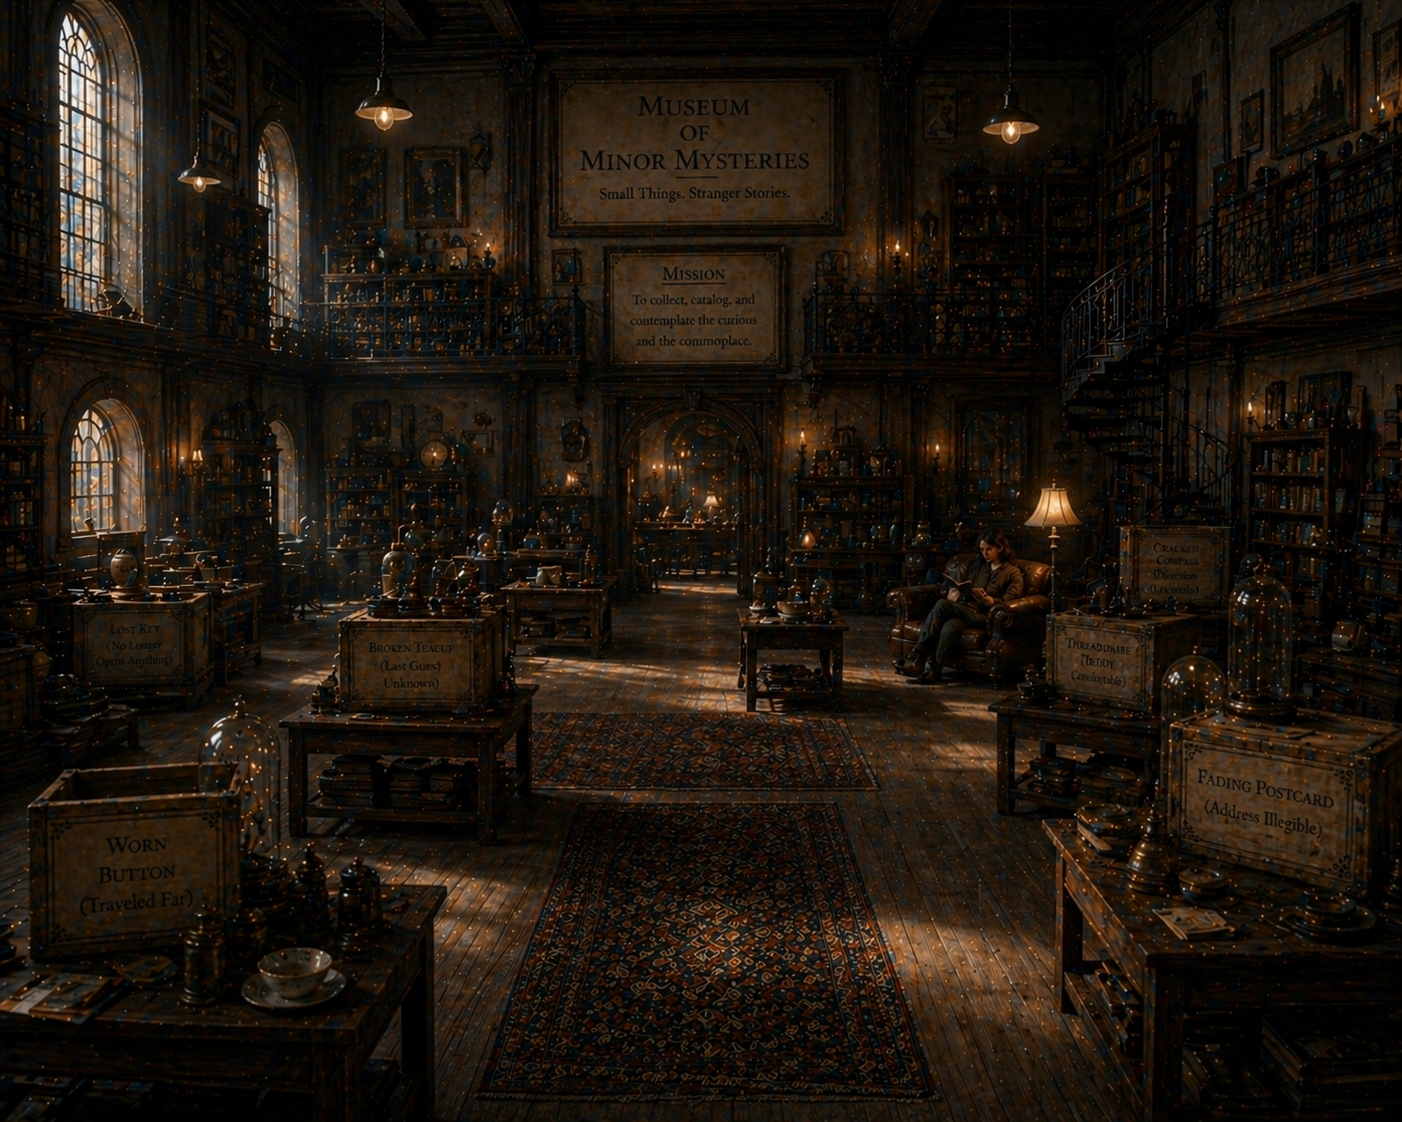
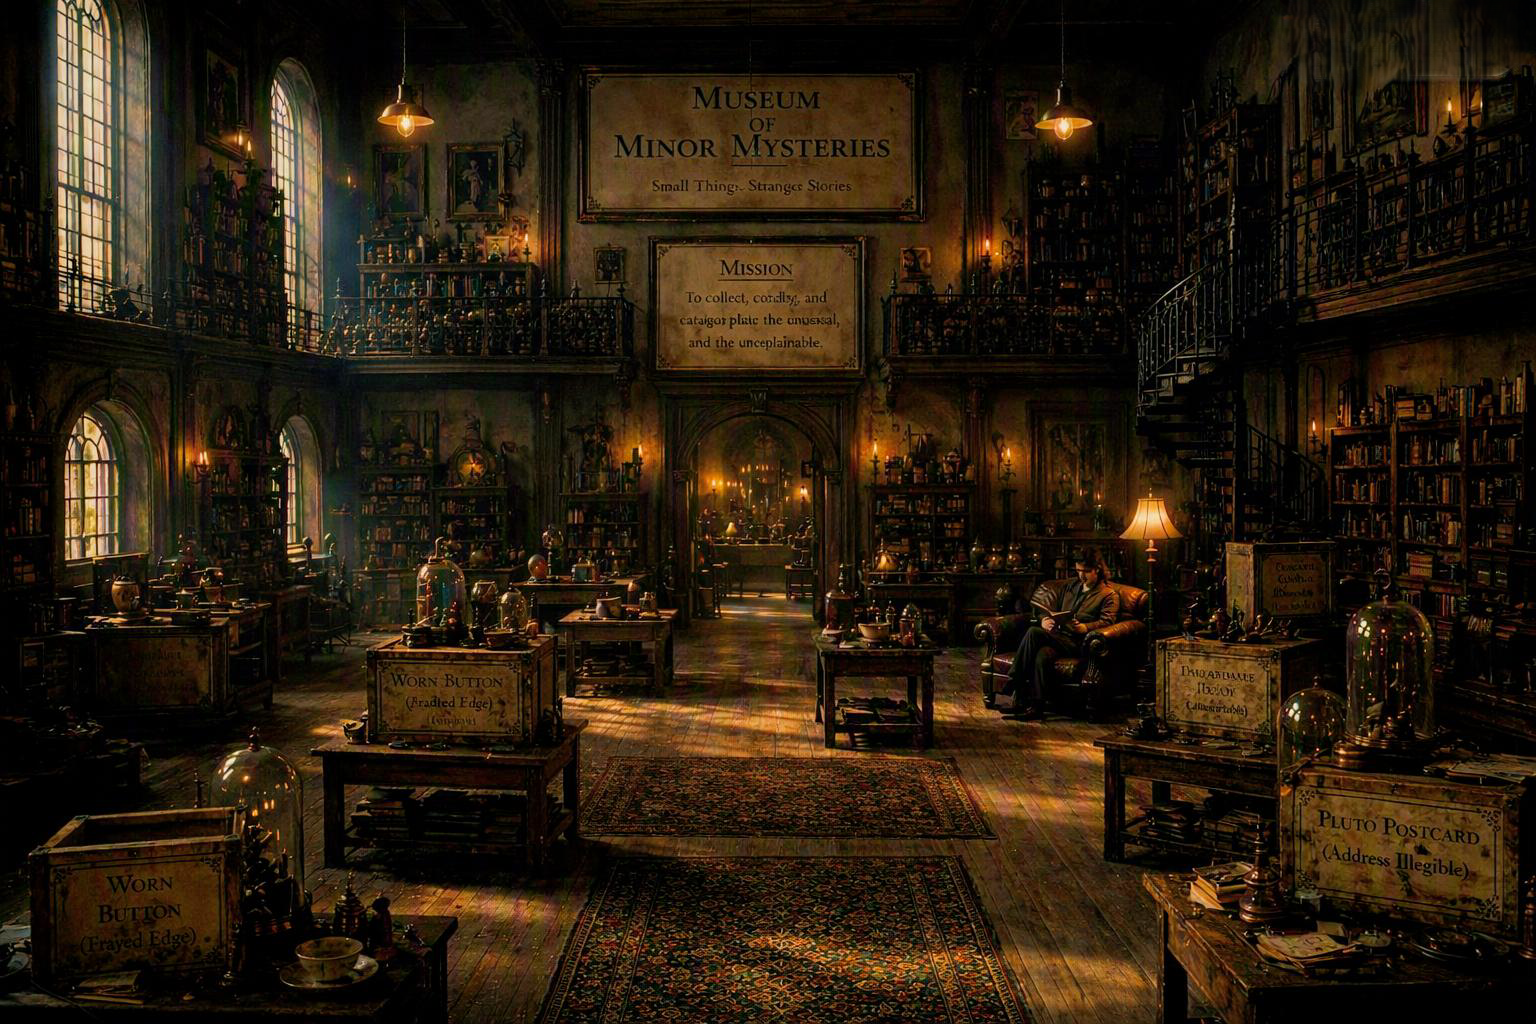
adds Spanish and replaces images

diff --git a/app/src/main/java/com/example/museumgame/ui/ExhibitUiResources.kt b/app/src/main/java/com/example/museumgame/ui/ExhibitUiResources.kt
@@ -46,14 +46,14 @@ internal fun exhibitUiResources(exhibitId: String): ExhibitUiResources = when (e
     ExhibitIds.SIMULATED_PROGRESS -> ExhibitUiResources(
         screen = ExhibitUiScreen.SIMULATED_PROGRESS,
         nameResource = R.string.simulated_progress_name,
-        illustrationResource = R.drawable.simulate_progress,
+        illustrationResource = R.drawable.simulated_progress,
         illustrationDescriptionResource = R.string.simulated_progress_image_description
     )
 
     ExhibitIds.NEAR_OCCURRENCE -> ExhibitUiResources(
         screen = ExhibitUiScreen.NEAR_OCCURRENCE,
         nameResource = R.string.near_occurrence_name,
-        illustrationResource = R.drawable.near_occurrence,
+        illustrationResource = R.drawable.almost_happened,
         illustrationDescriptionResource = R.string.near_occurrence_image_description
     )
 

diff --git a/docs/guideForLetteringAndStyles.md b/docs/guideForLetteringAndStyles.md
@@ -1,0 +1,100 @@
+Lettering
+Exhibit titles and major headings
+Cormorant Garamond SemiBold
+It has the literary, archival feeling of exhibition labels without becoming theatrical. It also supports Spanish accents properly.
+Use it for:
+Museum of Minor Mysteries
+exhibit names
+puzzle-stage headings
+completion and finale headings
+Avoid using it for buttons or long instructions.
+Body, controls, and feedback
+Source Sans 3
+It is clean, highly readable on a phone, and contrasts nicely with the serif headings.
+Use it for:
+instructions
+clues and feedback
+dropdowns
+buttons
+dialogs
+attempt counters
+accessibility text
+A good hierarchy would be:
+Museum title: Cormorant Garamond, 34–38sp, SemiBold
+Exhibit title: Cormorant Garamond, 28–32sp, SemiBold
+Section heading: Cormorant Garamond, 22–24sp, Medium
+Body: Source Sans 3, 17–18sp
+Buttons: Source Sans 3, 16sp, SemiBold
+Secondary text: Source Sans 3, 14–15sp
+Do not use all-caps everywhere. A little letter spacing can work for tiny labels such as CURRENT EXHIBIT, but full titles should remain normally capitalized.
+Light theme: “Day Gallery”
+Avoid pure white. A warm ivory will make the artwork feel framed rather than pasted onto a blank app.
+App background       #F3EEE3   warm museum plaster
+Main surface         #FBF8F1   gallery card
+Raised surface       #E9E1D3   secondary panel
+Primary text         #292722   charcoal ink
+Secondary text       #625D54   warm gray
+Primary accent       #315E5A   muted museum teal
+Primary pressed      #244844
+Secondary accent     #9A7044   aged brass
+Outline              #BEB4A4
+Destructive          #843E42   muted burgundy
+Success              #48664B   restrained green
+Buttons
+Primary action — Resume, Continue, Check, Combine:
+background: muted teal
+text: warm ivory
+slightly rounded corners, but not bubbly
+modest elevation or border rather than heavy shadow
+Secondary action — Return to entrance, Revisit:
+transparent or warm surface
+charcoal text
+visible teal or gray outline
+Destructive action — Restart museum:
+do not make it visually dominant
+use a burgundy outline or text button
+reserve solid burgundy for the confirmation dialog action
+Dark theme: “Museum After Hours”
+Do not use pure black. A blue-charcoal background will keep the paintings rich and preserve the museum atmosphere.
+App background       #181C1D   blue-charcoal
+Main surface         #232829   dark gallery wall
+Raised surface       #2E3535
+Primary text         #F2EBDD   warm parchment
+Secondary text       #C2B9AA
+Primary accent       #78AAA4   softened teal
+Primary pressed      #96BDB8
+Secondary accent     #C49A64   warm brass
+Outline              #555E5D
+Destructive          #D58A8B
+Success              #91B093
+The dark theme should make the artwork feel like it is being viewed in a quiet gallery at night. Keep image containers slightly lighter than the background and use a thin warm-gray frame around them.
+Shared visual treatment
+I would give most screens:
+a subtle warm or charcoal background;
+the artwork inside a simple framed surface;
+a narrow border rather than a large drop shadow;
+puzzle controls grouped on a distinct but quiet panel;
+generous spacing around titles;
+one consistent accent color for primary progress actions.
+For example:
+Background
+  └── Exhibit title
+  └── Framed artwork
+  └── Puzzle panel
+       ├── instruction
+       ├── controls
+       ├── feedback
+       └── navigation actions
+The entrance can feel slightly grander than the puzzle rooms: larger serif title, more breathing room, and perhaps an aged-brass divider.
+The Kubernetes City finale can shift subtly toward the teal and brass accents, suggesting that the player has stepped beyond the older museum into another world.
+Does the dark theme earn its keep?
+Yes, because:
+the artwork is atmospheric enough to benefit from it;
+the finale image likely works especially well against a dark surround;
+it gives the museum an appealing “after-hours visit” identity;
+Compose already supports themed color tokens cleanly.
+But build it as a real theme using semantic colors—not screen-by-screen hardcoded colors. Codex should define roles such as museumBackground, exhibitSurface, frameBorder, primaryAction, and feedbackSurface, then provide light and dark values.
+My strongest recommendation is:
+Cormorant Garamond + Source Sans 3, warm ivory daytime museum, blue-charcoal nighttime museum, muted teal primary actions, aged-brass details.
+
+That will feel atmospheric without sacrificing readability or turning the interface into a Victorian séance invitation.
